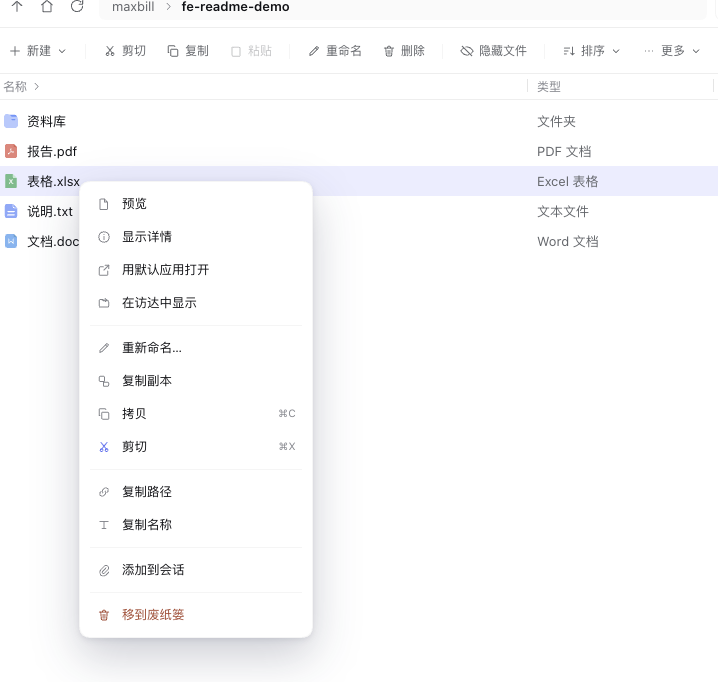
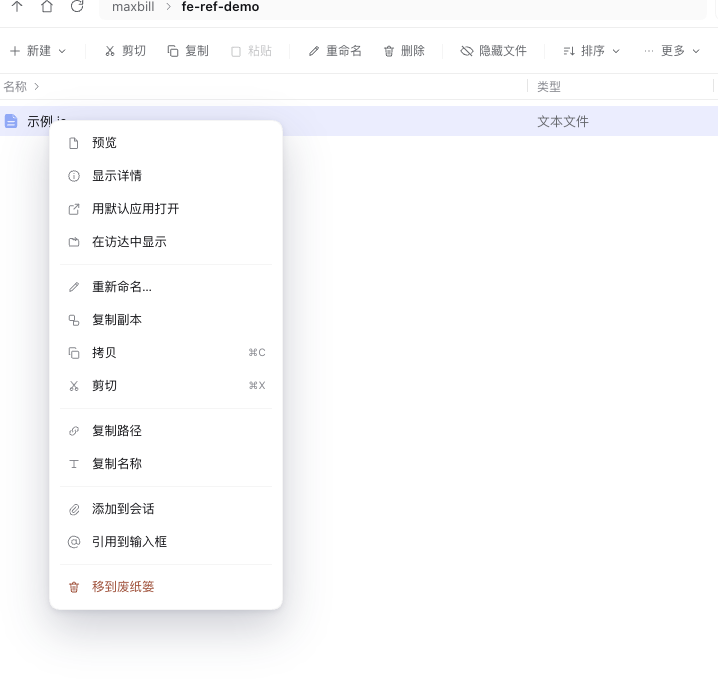
feat: 引用到输入框 for files
Right-clicking a file now offers 引用到输入框 next to 添加到会话: it switches back
to the conversation and pastes "@<absolute path> " into the composer, so the
agent reads the file only when it needs to. The other column of the same
intent — 添加到会话 carries the bytes, this carries the location — which suits
code, logs, large files and anything still being edited.

The composer accepts text through its paste channel, which both the Lexical
editor and a plain textarea handle; the helpers live at module scope and are
covered by the menu harness (row present on files, absent on folders, paste
text is exactly "@path ", and a missing composer returns false instead of
throwing).

diff --git a/lib/client.js b/lib/client.js
@@ -160,6 +160,8 @@ window.__ModuleLoader__.load({
       "复制路径": "Copy path",
       "复制名称": "Copy name",
       "添加到会话": "Add to conversation",
+      "引用到输入框": "Mention in the composer",
+      "[dsh-file-explorer] 引用到输入框失败：": "Could not reference the file in the composer:",
       "添加为工作区": "Add as workspace",
       "粘贴": "Paste",
       "在访达中显示当前文件夹": "Reveal this folder in Finder",
@@ -1097,6 +1099,7 @@ window.__ModuleLoader__.load({
       tag: ["M4.2 12.6V5.7A1.5 1.5 0 0 1 5.7 4.2h6.9l7.2 7.2a1.5 1.5 0 0 1 0 2.1l-6.3 6.3a1.5 1.5 0 0 1-2.1 0z", "M8.1 8.1h.01"],
       shield: ["M12 3.6 4.8 6.2v5.9c0 4.2 3 7.3 7.2 8.4 4.2-1.1 7.2-4.2 7.2-8.4V6.2z", "M8.9 12.2l2.1 2.1 4.1-4.2"],
       clip: ["M15.6 8.4l-6.1 6.1a2.1 2.1 0 1 0 3 3l6.1-6.1a4.2 4.2 0 0 0-6-6l-6.1 6.1a6.3 6.3 0 0 0 9 9l5.1-5.1"],
+      at: ["M16 12a4 4 0 1 0-8 0 4 4 0 0 0 8 0z", "M16 8v5a3 3 0 0 0 6 0v-1a10 10 0 1 0-4 8"],
       briefcase: [
         "M4 9.2A1.6 1.6 0 0 1 5.6 7.6h12.8A1.6 1.6 0 0 1 20 9.2V17a1.6 1.6 0 0 1-1.6 1.6H5.6A1.6 1.6 0 0 1 4 17z",
         "M9 7.6V6.1a1.2 1.2 0 0 1 1.2-1.2h3.6A1.2 1.2 0 0 1 15 6.1v1.5",
@@ -1551,6 +1554,59 @@ window.__ModuleLoader__.load({
      * context-menu file operations.
      * @returns {object} panel element
      */
+    /**
+     * Put text into the conversation composer, keeping whatever is already
+     * there. Uses the paste channel the editor itself listens to.
+     * @param {Element} card - composer card
+     * @param {string} text - text to insert
+     * @returns {boolean} whether the text was handed to the editor
+     */
+    function insertComposerText(card, text) {
+      if (!card || !text) return false;
+      var field = typeof card.querySelector === "function"
+        ? card.querySelector('[contenteditable="true"]') || card.querySelector("textarea")
+        : null;
+      if (!field) return false;
+      try { field.focus(); } catch (error) { /* focus is best effort */ }
+      if (field.tagName === "TEXTAREA") {
+        var at = typeof field.selectionStart === "number" ? field.selectionStart : field.value.length;
+        var value = String(field.value || "");
+        field.value = value.slice(0, at) + text + value.slice(at);
+        field.dispatchEvent(new Event("input", { bubbles: true }));
+        return true;
+      }
+      try {
+        var transfer = new DataTransfer();
+        transfer.setData("text/plain", text);
+        field.dispatchEvent(new ClipboardEvent("paste", { bubbles: true, cancelable: true, clipboardData: transfer }));
+        return true;
+      } catch (error) {
+        try { return document.execCommand("insertText", false, text); } catch (ignored) { return false; }
+      }
+    }
+
+    /**
+     * Wait for the conversation composer to mount.
+     * @param {number} timeout - milliseconds to wait
+     * @returns {Promise<Element|null>} composer card, or null on timeout
+     */
+    function waitForComposer(timeout) {
+      var deadline = Date.now() + timeout;
+      var query = typeof document !== "undefined" && typeof document.querySelector === "function"
+        ? function () { return document.querySelector("[data-composer-card]"); }
+        : function () { return null; };
+      var later = typeof setTimeout === "function" ? setTimeout : null;
+      return new Promise(function (resolvePromise) {
+        function tick() {
+          var card = query();
+          if (card) { resolvePromise(card); return; }
+          if (later === null || Date.now() > deadline) { resolvePromise(null); return; }
+          later(tick, 60);
+        }
+        tick();
+      });
+    }
+
     function FileExplorerPanel() {
       // Resolve the language before anything renders, so every t() call in this
       // pass uses it.
@@ -2092,6 +2148,7 @@ window.__ModuleLoader__.load({
         }
         if (id === "rename") { askRename(entry); return; }
         if (id === "attach") { attachToSession(entry); return; }
+        if (id === "quote") { quoteToSession(entry); return; }
         if (id === "addWorkspace") { askAddWorkspace(entry); return; }
         if (id === "trash") { askDeleteSelection(); return; }
       }
@@ -2281,8 +2338,9 @@ window.__ModuleLoader__.load({
             { separator: true },
             { id: "copyPath", label: t("复制路径"), icon: "link" },
             { id: "copyName", label: t("复制名称"), icon: "text" },
-            ATTACH_KINDS[entry.kind] ? { separator: true } : null,
+            entry.dir ? null : { separator: true },
             ATTACH_KINDS[entry.kind] ? { id: "attach", label: t("添加到会话"), icon: "clip" } : null,
+            entry.dir ? null : { id: "quote", label: t("引用到输入框"), icon: "at" },
             entry.dir && workspacesRef.current ? { separator: true } : null,
             entry.dir && workspacesRef.current ? { id: "addWorkspace", label: t("添加为工作区"), icon: "briefcase" } : null,
             { separator: true },
@@ -2332,24 +2390,20 @@ window.__ModuleLoader__.load({
       }
 
       /**
-       * Wait for the conversation composer to mount.
-       * @param {number} timeout - milliseconds to wait
-       * @returns {Promise<Element|null>} composer card, or null on timeout
+       * Reference a file by path in the composer instead of uploading it, so the
+       * agent reads it only when it needs to.
+       * @param {object} entry - file entry
+       * @returns {void}
        */
-      function waitForComposer(timeout) {
-        var deadline = Date.now() + timeout;
-        var query = typeof document !== "undefined" && typeof document.querySelector === "function"
-          ? function () { return document.querySelector("[data-composer-card]"); }
-          : function () { return null; };
-        var later = typeof setTimeout === "function" ? setTimeout : null;
-        return new Promise(function (resolvePromise) {
-          function tick() {
-            var card = query();
-            if (card) { resolvePromise(card); return; }
-            if (later === null || Date.now() > deadline) { resolvePromise(null); return; }
-            later(tick, 60);
-          }
-          tick();
+      function quoteToSession(entry) {
+        var layout = layoutRef.current;
+        if (layout && typeof layout.selectPanel === "function") layout.selectPanel(null);
+        waitForComposer(4000).then(function (card) {
+          if (!card) throw new Error(t("没有找到会话输入框"));
+          insertComposerText(card, "@" + entry.path + " ");
+        }).catch(function (error) {
+          var message = (error && error.message) || String(error);
+          try { console.error(t("[dsh-file-explorer] 引用到输入框失败："), message); } catch (ignored) {}
         });
       }
 
@@ -3090,6 +3144,8 @@ window.__ModuleLoader__.load({
     exports.FileExplorerPanel = FileExplorerPanel;
     /** Test seam: render the settings window on its own. */
     exports.__OptionsDialog = OptionsDialog;
+    /** Test seam: insert composer text without a live conversation. */
+    exports.__insertComposerText = insertComposerText;
     exports.PanelIcon = PanelIcon;
     exports.inject = ["slots", "workspaces", "layout"];
     exports.apply = apply;

diff --git a/README.en.md b/README.en.md
@@ -38,6 +38,12 @@ Then just ask: "which months overspent in this spreadsheet?" or "summarise the c
 
 ![Adding a document to the conversation](docs/session-menu.png)
 
+### ③ 引用到输入框 — on a file
+
+For when you would rather not put the bytes into the context: right-click → **引用到输入框** inserts `@/absolute/path` into the composer, and the agent reads the file only when it needs to. Best for code, logs, large files and anything still being edited — cheaper in tokens, and size limits never get in the way.
+
+![Referencing a file in the composer](docs/quote.png)
+
 ### In practice
 
 - **Starting a project**: glance at the icon grid → double-click into the folder → right-click 添加为工作区 → have the agent read the code and run the build.
@@ -72,6 +78,8 @@ Then just ask: "which months overspent in this spreadsheet?" or "summarise the c
 ## Context menu
 
 **File or folder**: preview (open, for folders), open with the default app, reveal in Finder, rename…, duplicate, copy, cut, copy path, copy name, move to Trash.
+
+**Files also get**: **引用到输入框** — inserts `@/absolute/path` into the current conversation's composer (no content copied; the agent reads it on demand). Good for code, big files, or files you are still editing: same intent as 添加到会话, but it points at the file instead of carrying it.
 
 **Common documents also get**: **添加到会话** — images, text, PDF, Word, Excel and PowerPoint files can be handed straight to the current conversation (the same thing as dropping them on the composer; an attachment card appears there). The bytes come from the new `/api/file-explorer/raw` host route.
 

diff --git a/README.md b/README.md
@@ -38,6 +38,12 @@
 
 ![文档右键：添加到会话](docs/session-menu.png)
 
+### ③ 引用到输入框 · 文件右键
+
+不想把内容塞进上下文时用这条：右键 → **引用到输入框**，输入框里出现 `@/绝对/路径`，agent 需要时自己去读。适合代码、日志、大文件，以及还会继续改的文件 —— 省 token，也不会因为超过附件大小而上不去。
+
+![引用到输入框](docs/quote.png)
+
 ### 典型用法
 
 - **开一个项目**：图标视图扫一眼 → 双击进目录 → 右键「添加为工作区」→ 新会话里让 agent 读代码、跑构建。
@@ -78,6 +84,8 @@
 ## 右键菜单
 
 **文件 / 文件夹**：预览（文件夹为「打开」）、用默认应用打开、在访达中显示、重新命名…、复制副本、拷贝、剪切、复制路径、复制名称、移到废纸篓。
+
+**文件额外一项**：**引用到输入框** —— 把 `@绝对路径` 插进当前对话的输入框（不切走内容，agent 需要时再读），适合代码、大文件或还要继续改的文件；和「添加到会话」是同一个意图的两条路：一个把内容送进去，一个把位置告诉它。
 
 **常见文档额外一项**：**添加到会话** —— 图片、文本、PDF、Word、Excel、PPT 可以直接加进当前对话（等同把文件拖进输入框，输入框里会出现附件卡片），靠宿主新增的 `/api/file-explorer/raw` 取回原始字节。详见上面的[两个 DSH 专属动作](#两个-dsh-专属动作)。
 
